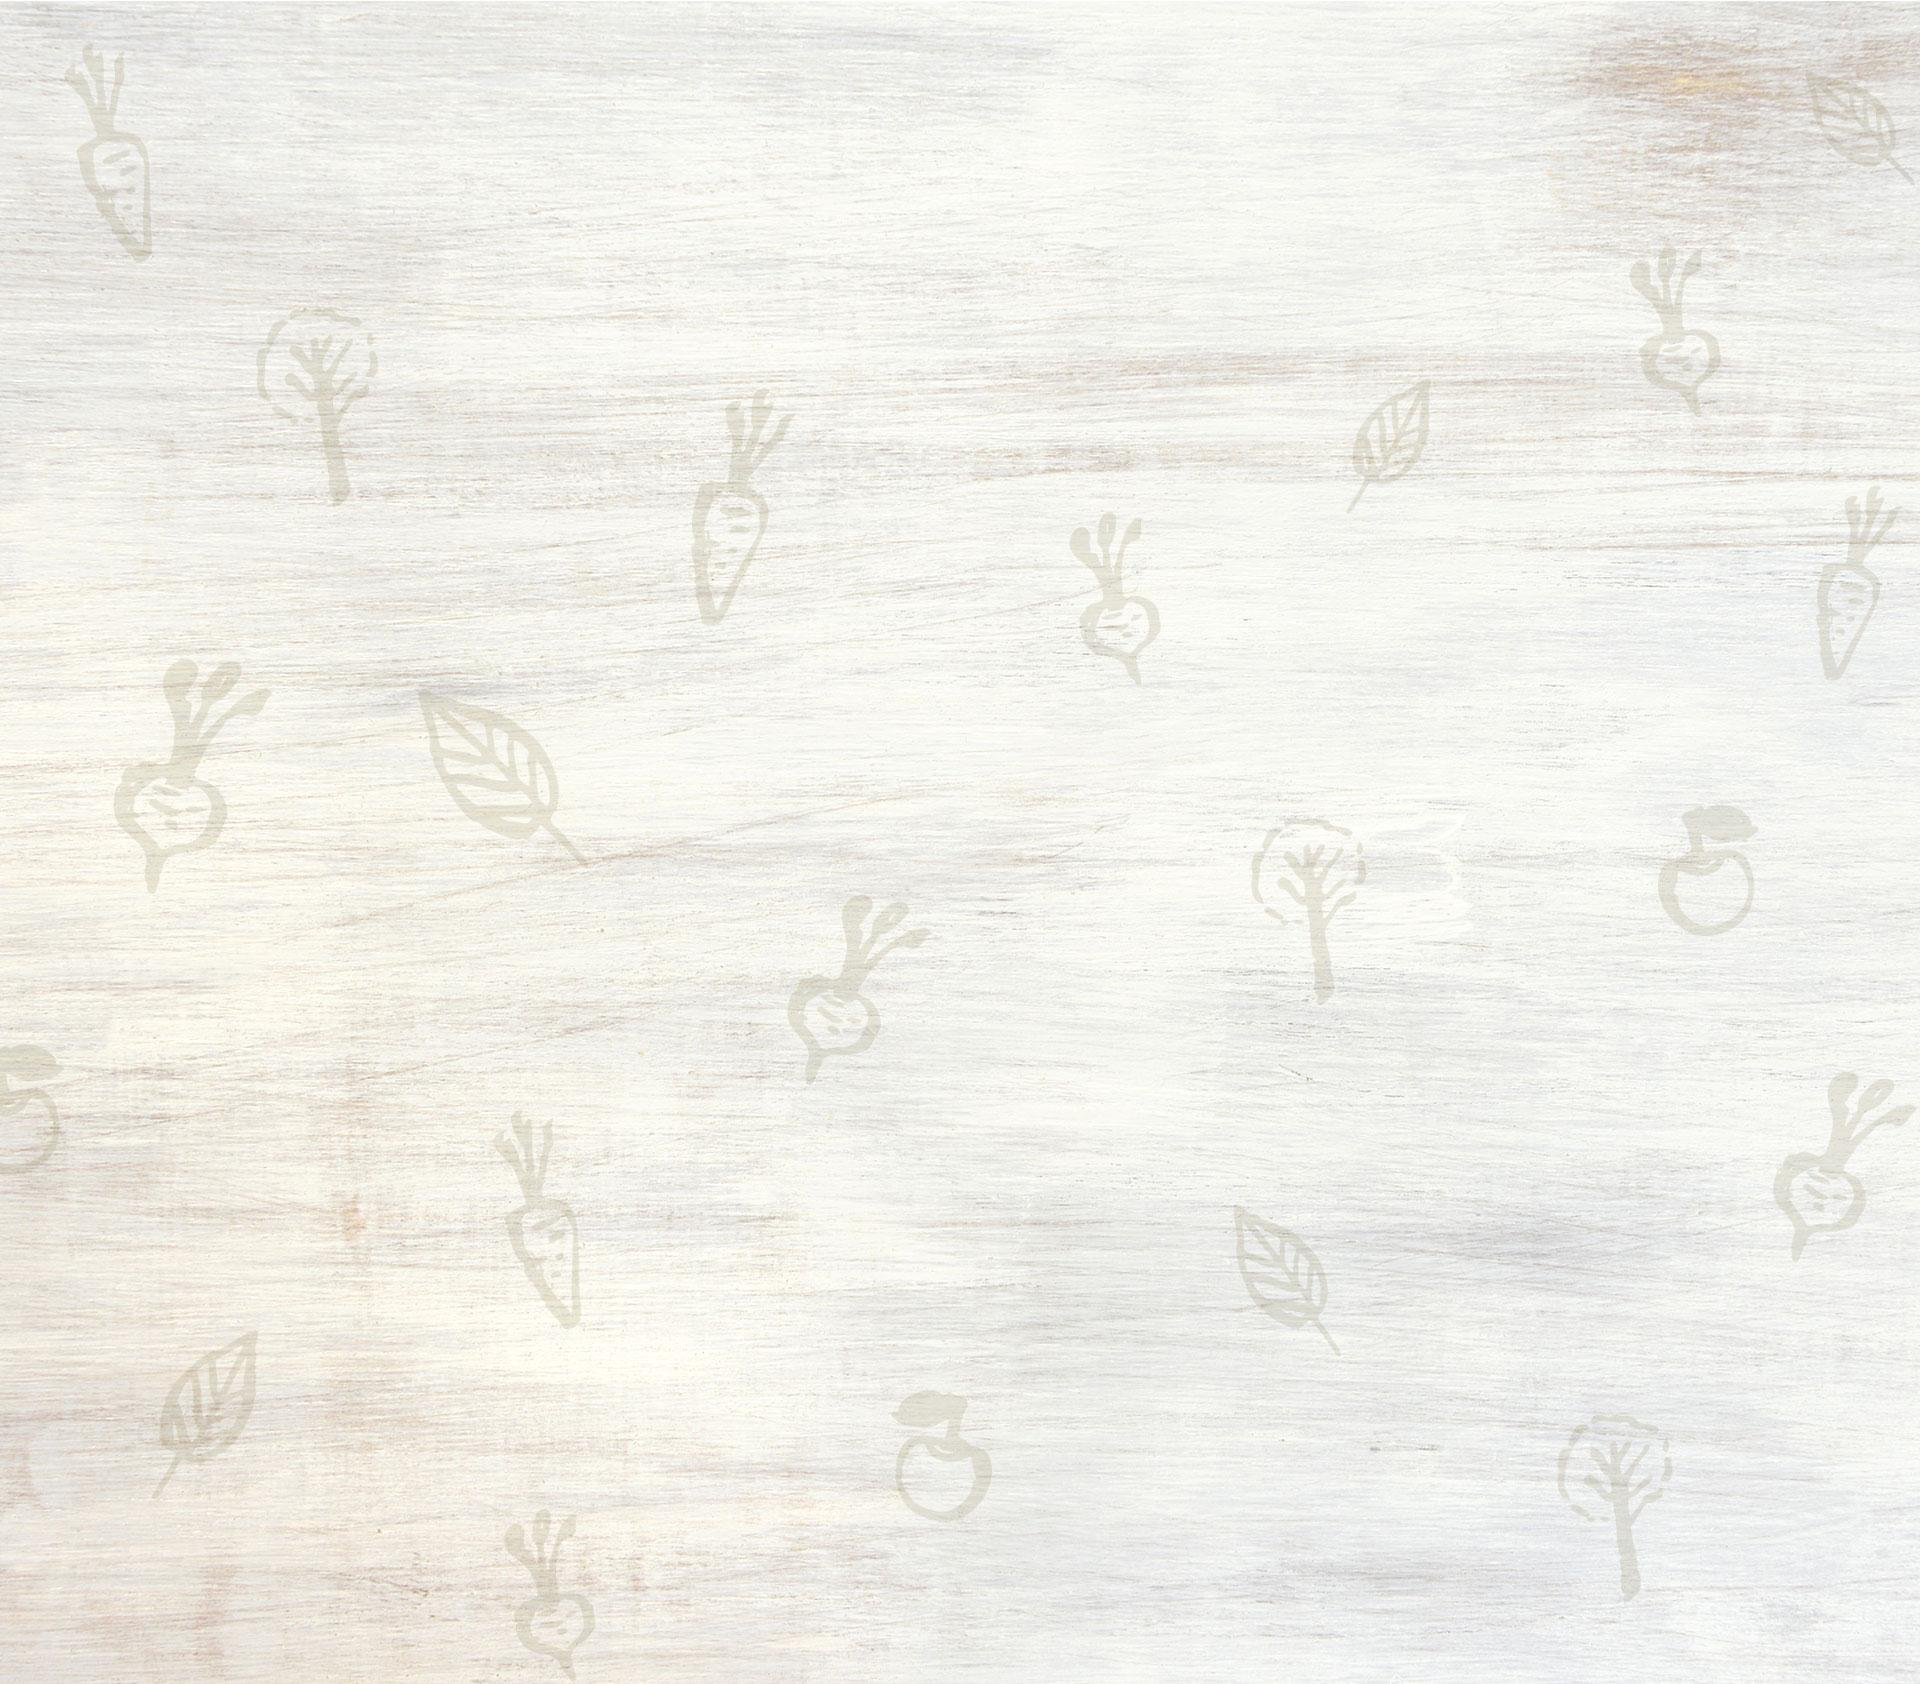
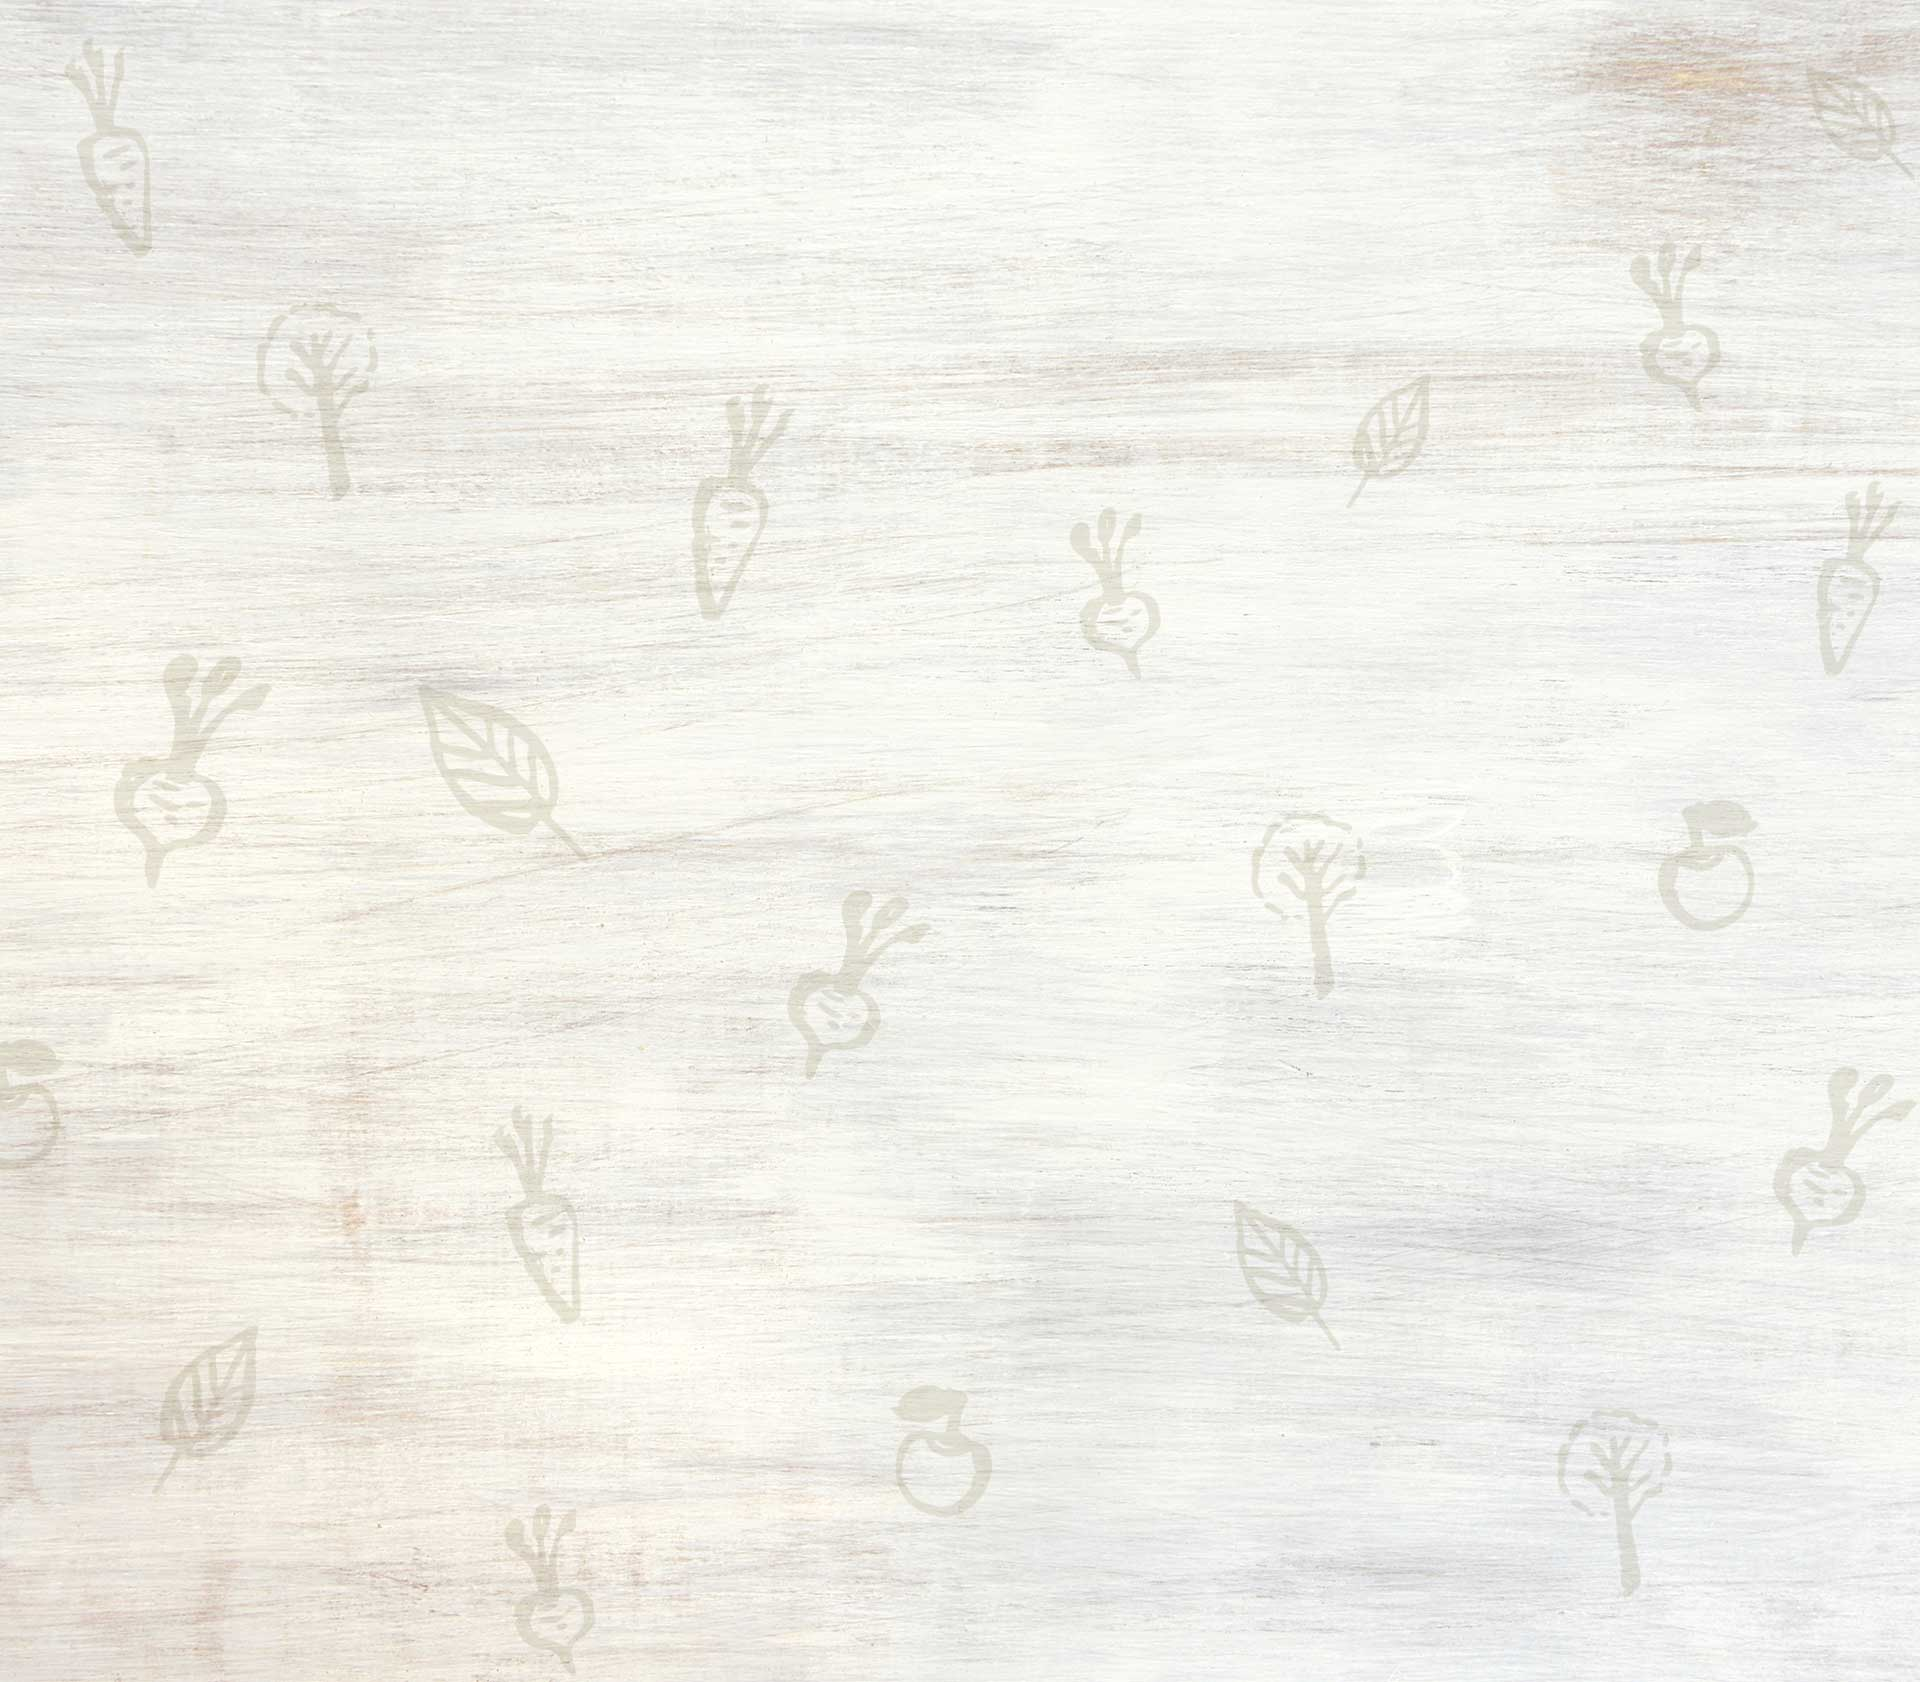
ajustes bg

diff --git a/css/style.css b/css/style.css
@@ -62,11 +62,10 @@ nav ul li ul li{
 
 /*Header*/
 .header{
-	background-image: url('../img/background__header.jpg'); 
-	background-repeat: no-repeat;
-    background-size: 100% auto;
-    background-position: center top;
-    padding-bottom:21%;
+	 background: url('../img/alt1.png') bottom no-repeat,
+     			 url('../img/alt0.jpg') no-repeat;
+     background-size: 100% auto;
+     height: 140vh;    
 }
 
 .header__contenido{
@@ -116,6 +115,7 @@ nav ul li ul li{
     background-size: 100% auto;
     background-position: center top;
     padding-bottom: 15em;
+    padding-top: 8em;
 }
 
 .fincas__nuestras__item{
@@ -214,6 +214,10 @@ nav ul li ul li{
     height: 1280px;
 }
 
+.video img{
+	width: 100%;
+}
+
 
 /*Recetas*/
 
@@ -302,4 +306,158 @@ nav ul li ul li{
 
 .recetas__item:nth-child(2):hover .recetas__item__info{
 	padding-left: 3.5em;
+}
+
+
+
+
+/*MediaQueries*/
+
+@media screen and (max-width:1600px) {
+	.header{
+		height: 130vh;
+	}
+}
+	
+@media screen and (max-width:1440px) {
+	.header{
+		height: 155vh;
+	}
+
+	.recetas {
+	   padding: 4em 0;
+	}
+
+	.fincas {
+    	padding: 5em 0;
+	}
+}
+	
+@media screen and (max-width:1366px) {
+	.header{
+		height: 130vh;
+	}
+	
+	.recetas {
+	   padding: 0em 0;
+	}
+
+	.recetas h3{
+		margin-top: 1em;
+	}
+
+	.fincas {
+    	padding-bottom: 8em;
+	}
+
+}
+
+
+@media screen and (max-width:1280px) {
+
+	.recetas {
+	   padding: 1em 0;
+	   background-size: cover;
+	}
+
+}
+
+
+@media screen and (max-width:1279px) {
+	
+	nav ul{
+   		margin-left: -3em;
+	}
+
+	nav ul li {
+    	margin-right: 1em;
+	}
+
+	.header__contenido {
+    	padding: 6em 0;
+	}
+
+	.header__contenido img {
+	    width: 20%;
+	}
+
+	.header__contenido__parrafo p {
+    	font-size: 1.2em;
+	}
+
+	.fincas__nuestras__item {
+    	padding-bottom: 3.5em;
+	}
+
+	.fincas__nuestras__item h4 {
+    	font-size: 2em;
+    }
+
+    .nuestras {
+    	padding: 4.41em 0;
+	}
+
+	.nuestras h3 {
+    	padding: 0 1em;
+    }
+	
+	.recetas__item p {
+    	font-size: 1.3em;
+	}
+	
+
+}
+
+
+@media screen and (max-width:800px) {
+	.header {
+	    height: 70vh;
+	}
+
+	.header__contenido {
+    	padding: 3em 0;
+	}
+
+	.header__contenido img {
+	    width: 25%;
+	}
+
+	.header__contenido__parrafo p{
+		font-size: 1em;
+   		padding: 0 2.5em;
+	}
+
+	.header__contenido__parrafo p:last-child{
+		font-size: 1em;
+   		padding: 0 2em;
+	}
+
+	.fincas {
+	    background-repeat: repeat-y;
+	}
+
+	.recetas__item{
+		text-align: center;
+	}
+
+	.recetas__item__info{
+		padding: 1em 0 2em 0;
+		text-align: center;
+	}
+	
+	.recetas__item:hover .recetas__item__info{
+		padding-left: 0em;
+	}
+
+	.recetas__item:nth-child(2):hover .recetas__item__info{
+		padding-left: 0em;
+	}
+	
+	.recetas__item p {
+    	font-size: 1.3em;
+    	text-align: center;
+    	padding: 1em 2em;
+	}
+
+
 }

diff --git a/index.html b/index.html
@@ -59,7 +59,7 @@
 					<img src="img/sondeaqui.png" alt="">
 
 					<div class="row">
-						<div class="col-md-6 col-md-offset-3">
+						<div class="col-xs-8 col-xs-offset-2 col-md-6 col-md-offset-3">
 							<div class="header__contenido__parrafo">
 								<p>Las habichuelas no están completas sin la calabaza, ni el sofrito 
 								sin la cebolla y pimientos; no hay ensaladita por el lado sin lechuga, ni verano sin un melón de agua para refrescarnos. 
@@ -82,7 +82,7 @@
 <section class="fincas">
 	<div class="container">
 		<div class="row">
-			<div class="col-md-10 col-md-offset-1">
+			<div class="col-xs-10 col-xs-offset-1 col-md-10 col-md-offset-1">
 				<div class="fincas__nuestras">
 					<div class="row">
 						<div class="col-md-4 nopadding">
@@ -150,7 +150,7 @@
 				<h3>RECETAS</h3>
 			</div>	
 
-			<div class="col-md-10 col-md-offset-1">
+			<div class="col-xs-10 col-xs-offset-1 col-md-10 col-md-offset-1">
 				<div class="recetas__item">
 					<div class="row">
 						<div class="col-md-5">
